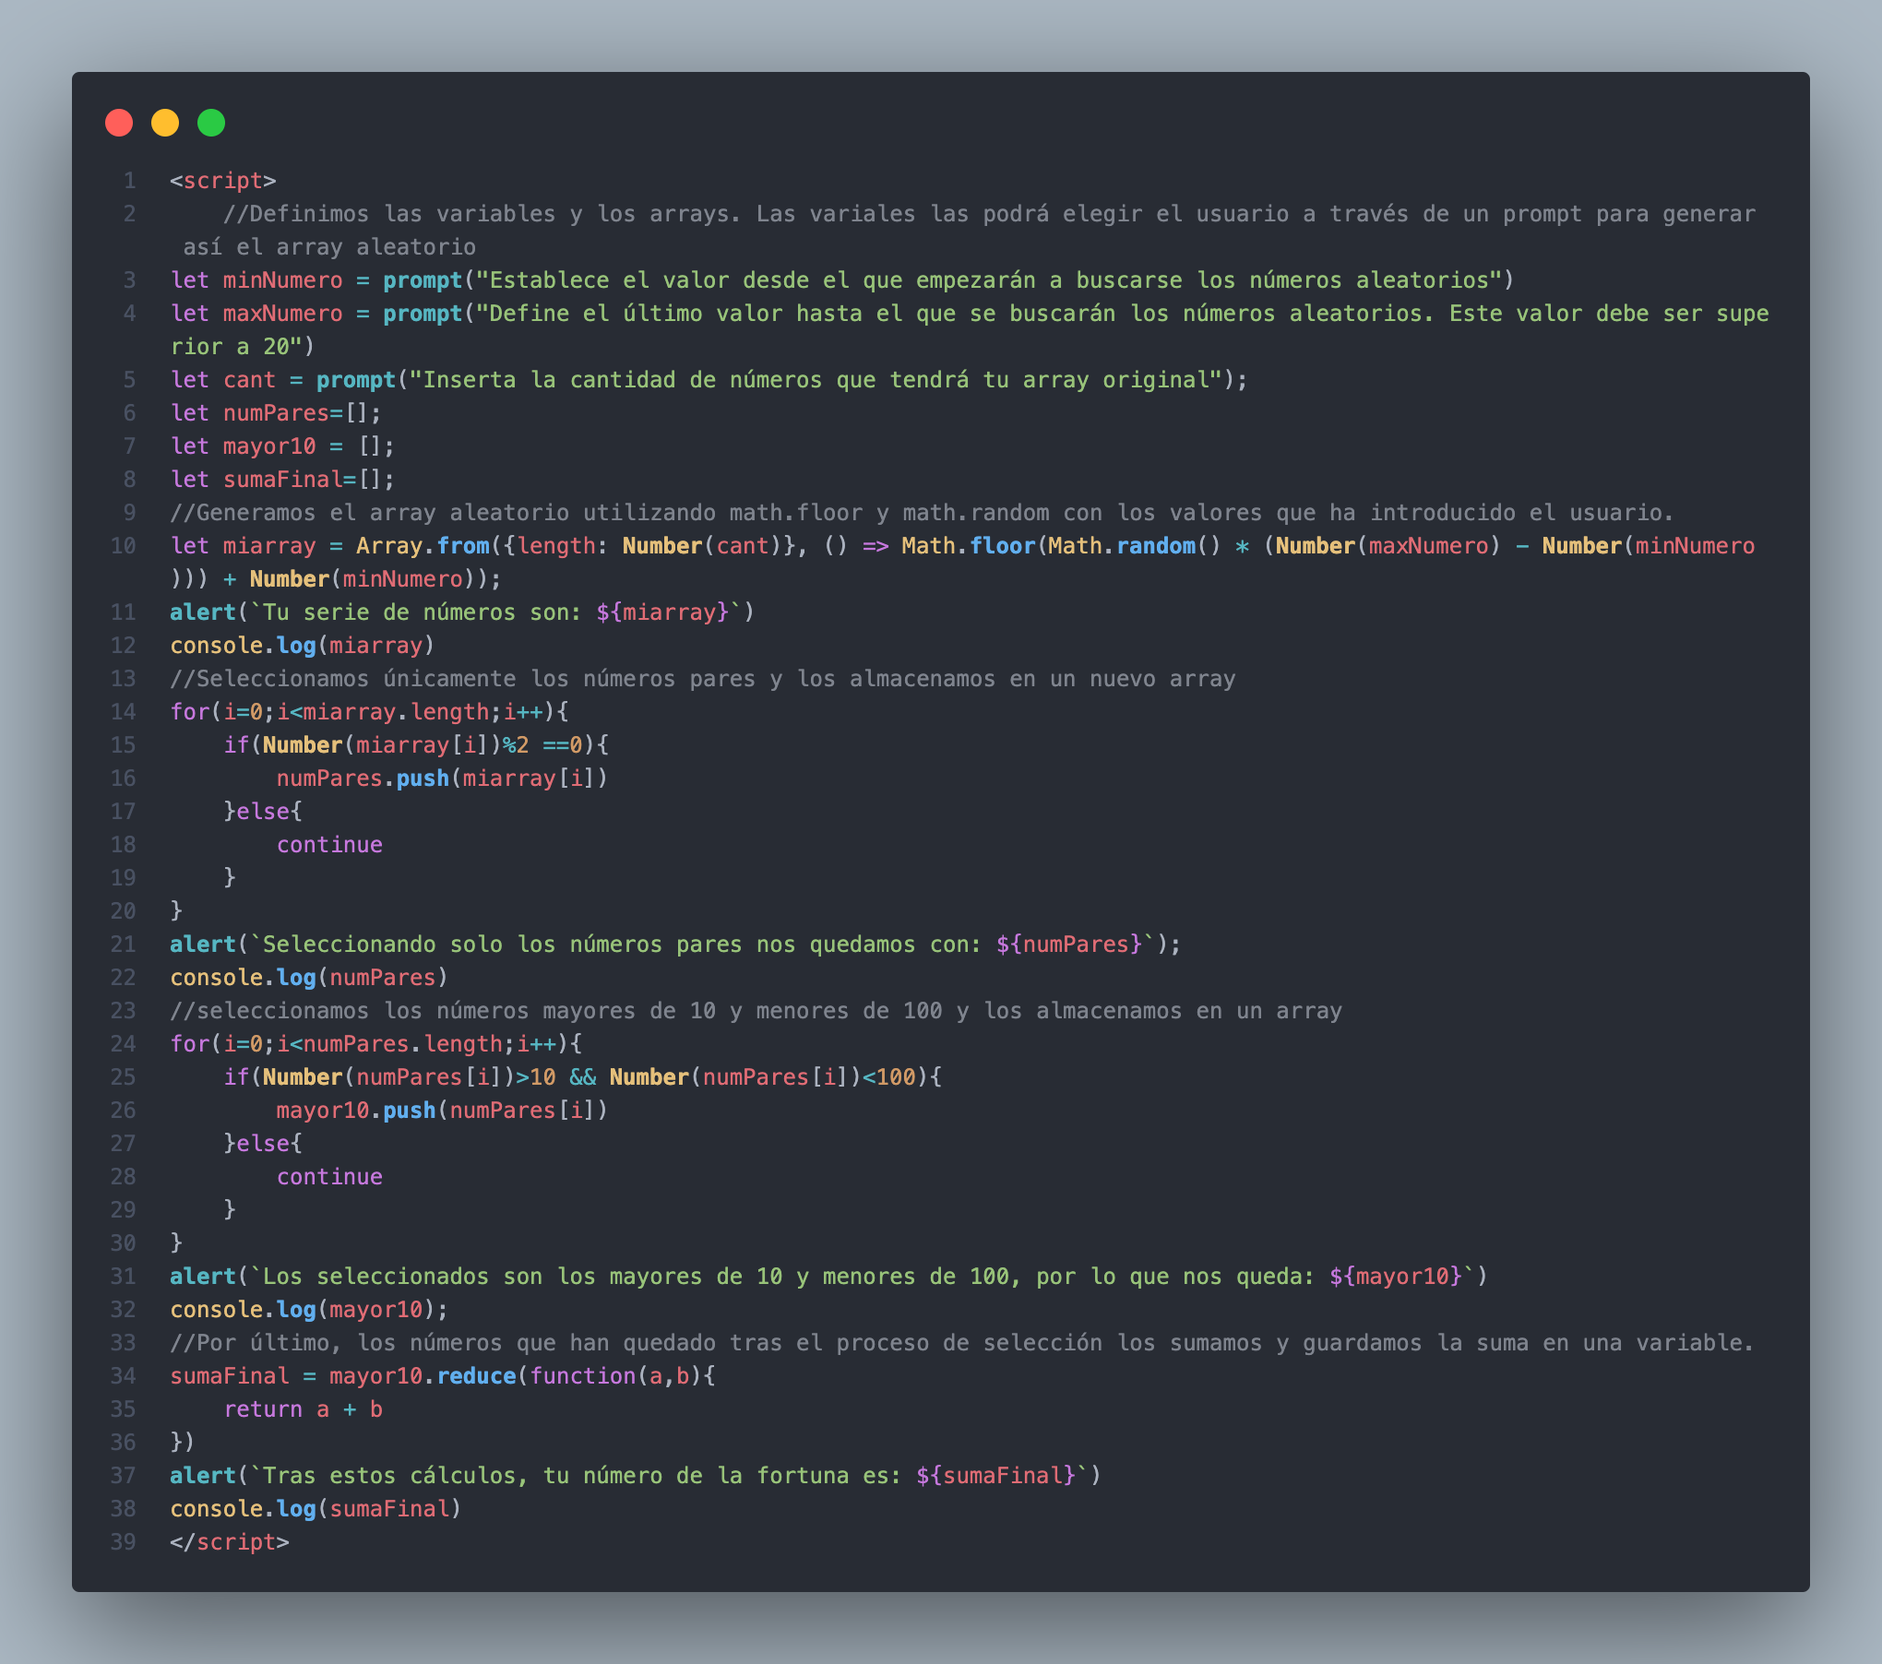
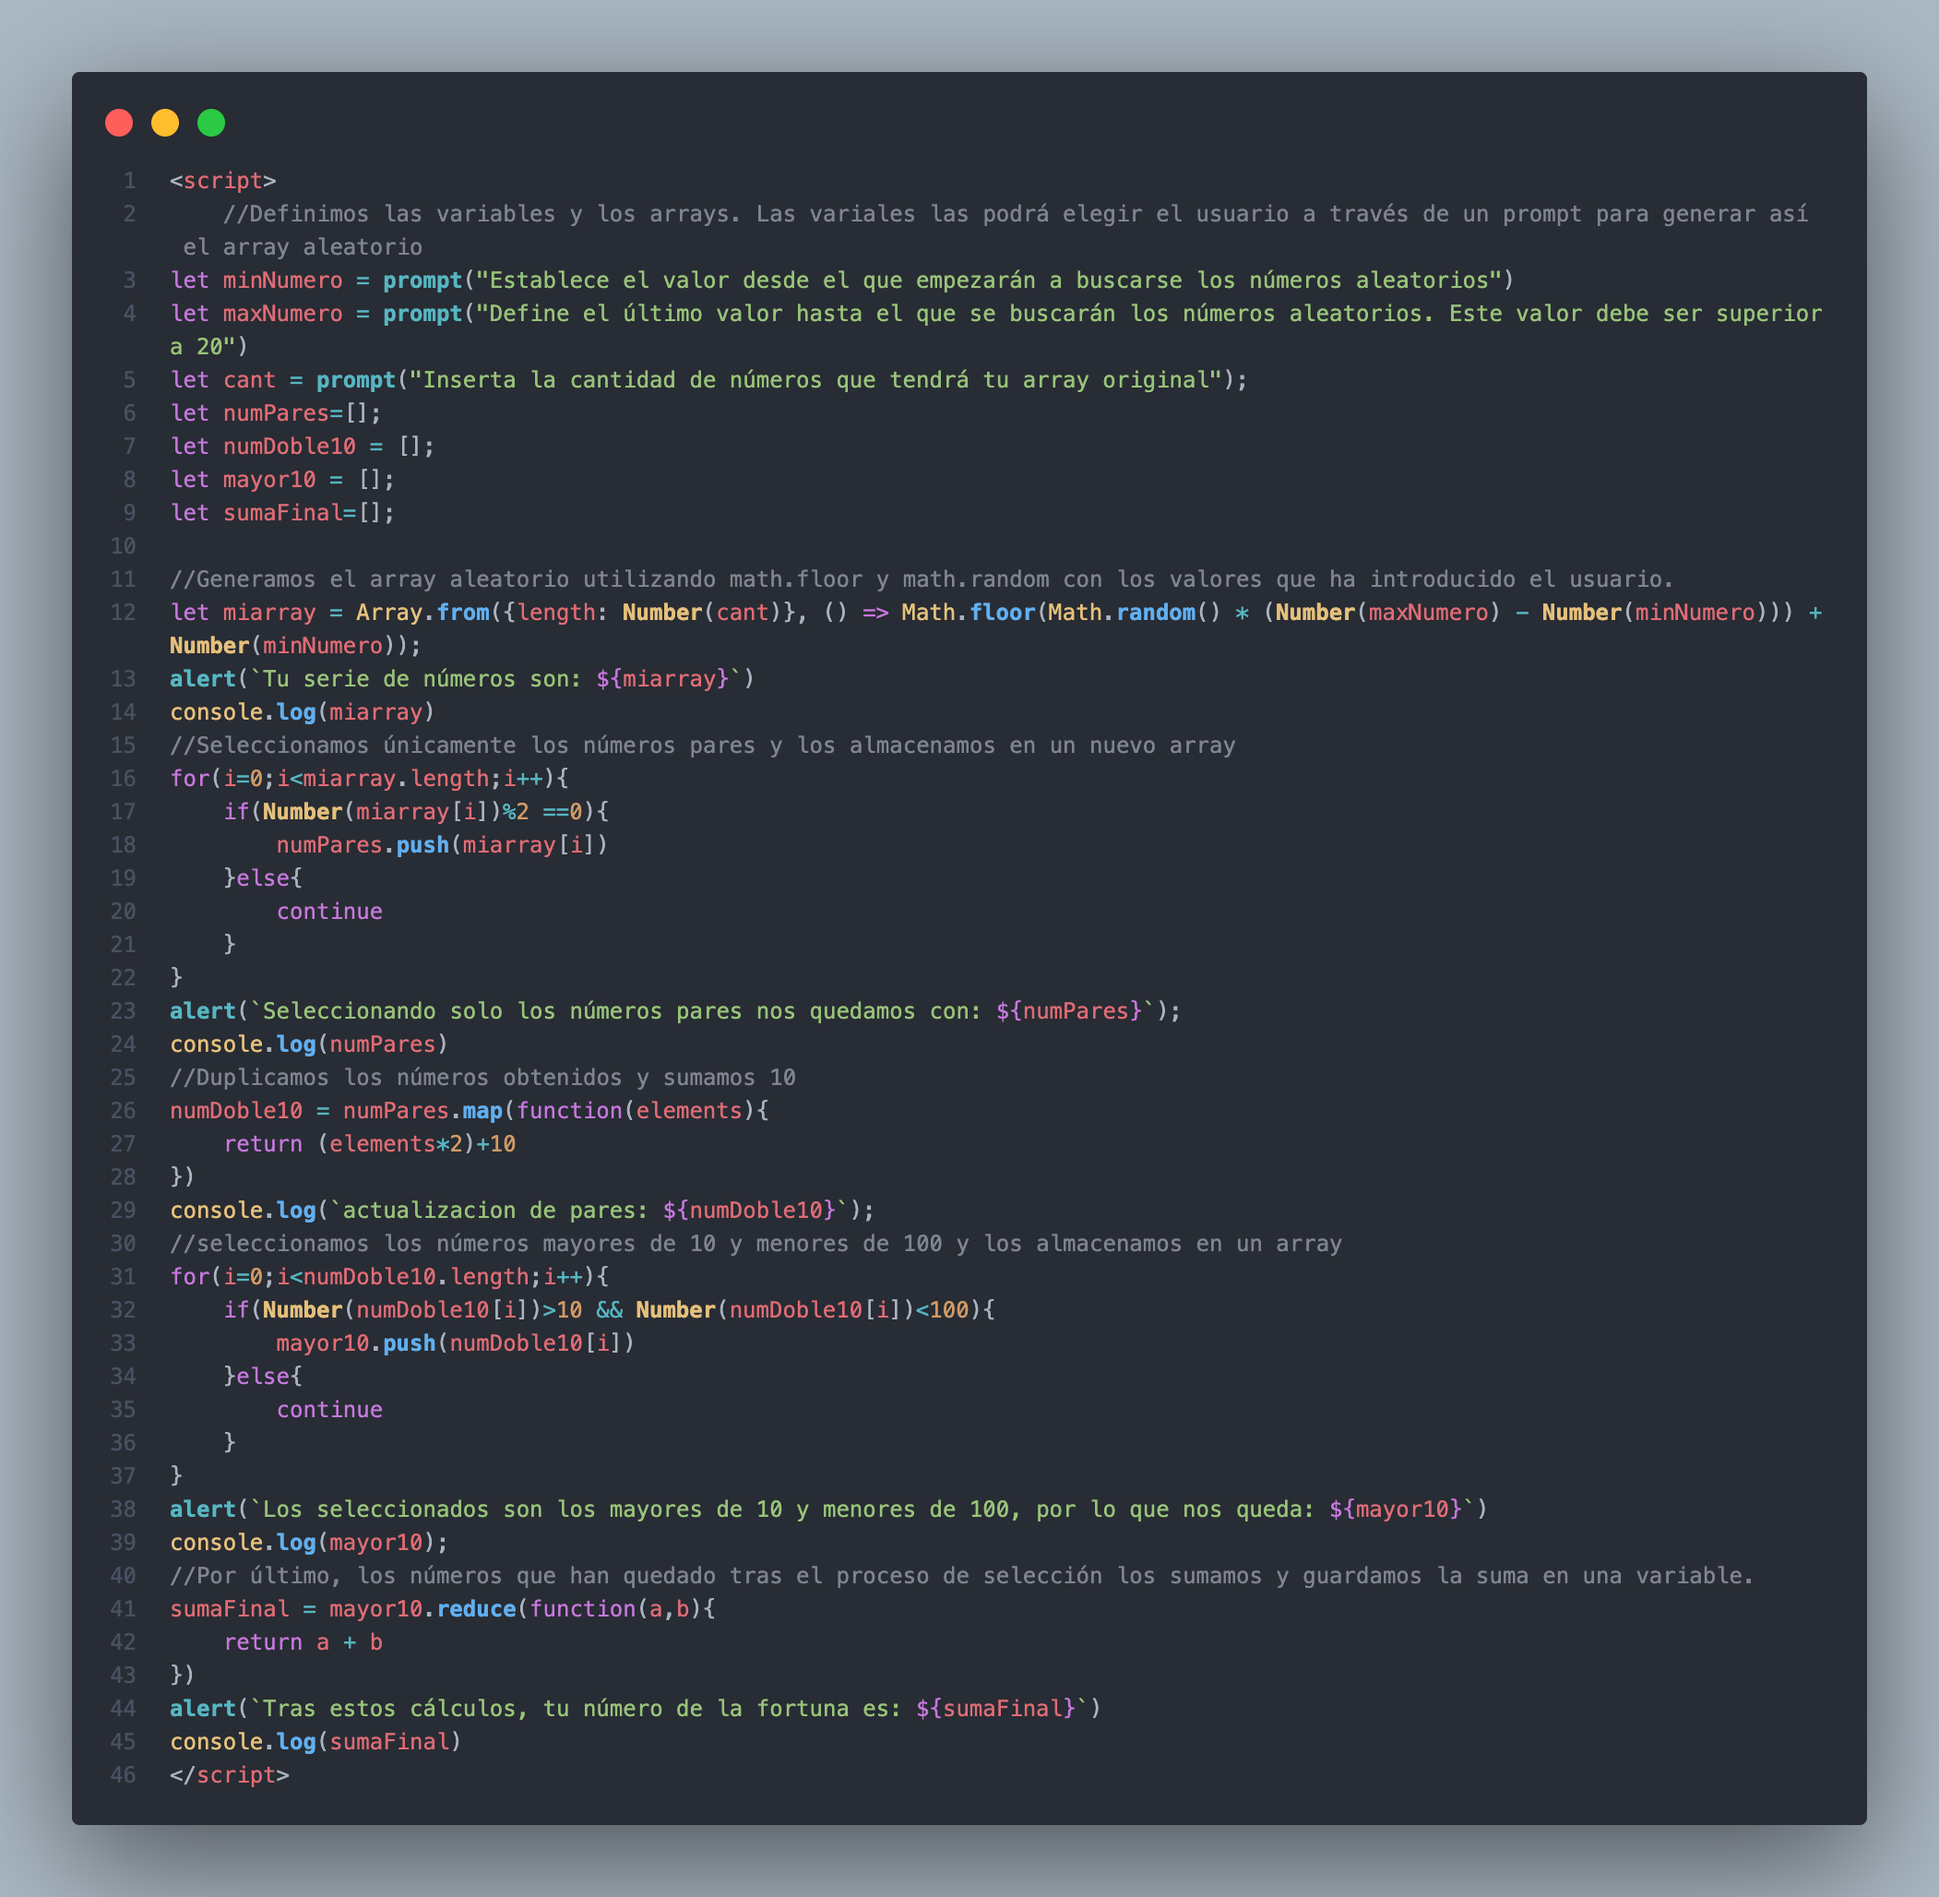
actualización ejercicio 41

diff --git a/bloque_array.html b/bloque_array.html
@@ -337,8 +337,10 @@ let minNumero = prompt("Establece el valor desde el que empezarán a buscarse lo
 let maxNumero = prompt("Define el último valor hasta el que se buscarán los números aleatorios. Este valor debe ser superior a 20")
 let cant = prompt("Inserta la cantidad de números que tendrá tu array original");
 let numPares=[];
+let numDoble10 = [];
 let mayor10 = [];
 let sumaFinal=[];
+
 //Generamos el array aleatorio utilizando math.floor y math.random con los valores que ha introducido el usuario.
 let miarray = Array.from({length: Number(cant)}, () => Math.floor(Math.random() * (Number(maxNumero) - Number(minNumero))) + Number(minNumero));
 alert(`Tu serie de números son: ${miarray}`)
@@ -353,10 +355,15 @@ for(i=0;i<miarray.length;i++){
 }
 alert(`Seleccionando solo los números pares nos quedamos con: ${numPares}`);
 console.log(numPares)
+//Duplicamos los números obtenidos y sumamos 10
+numDoble10 = numPares.map(function(elements){
+    return (elements*2)+10
+})
+console.log(`actualizacion de pares: ${numDoble10}`);
 //seleccionamos los números mayores de 10 y menores de 100 y los almacenamos en un array
-for(i=0;i<numPares.length;i++){
-    if(Number(numPares[i])>10 && Number(numPares[i])<100){
-        mayor10.push(numPares[i])
+for(i=0;i<numDoble10.length;i++){
+    if(Number(numDoble10[i])>10 && Number(numDoble10[i])<100){
+        mayor10.push(numDoble10[i])
     }else{
         continue
     }
